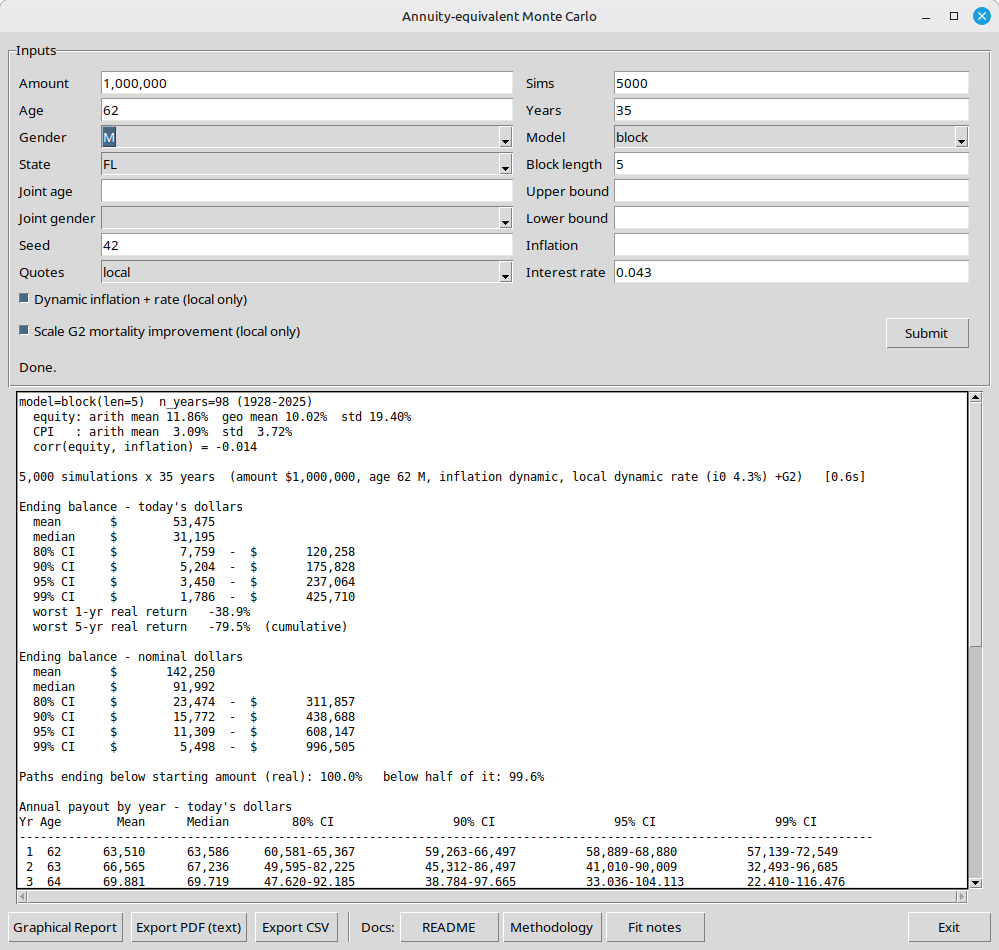
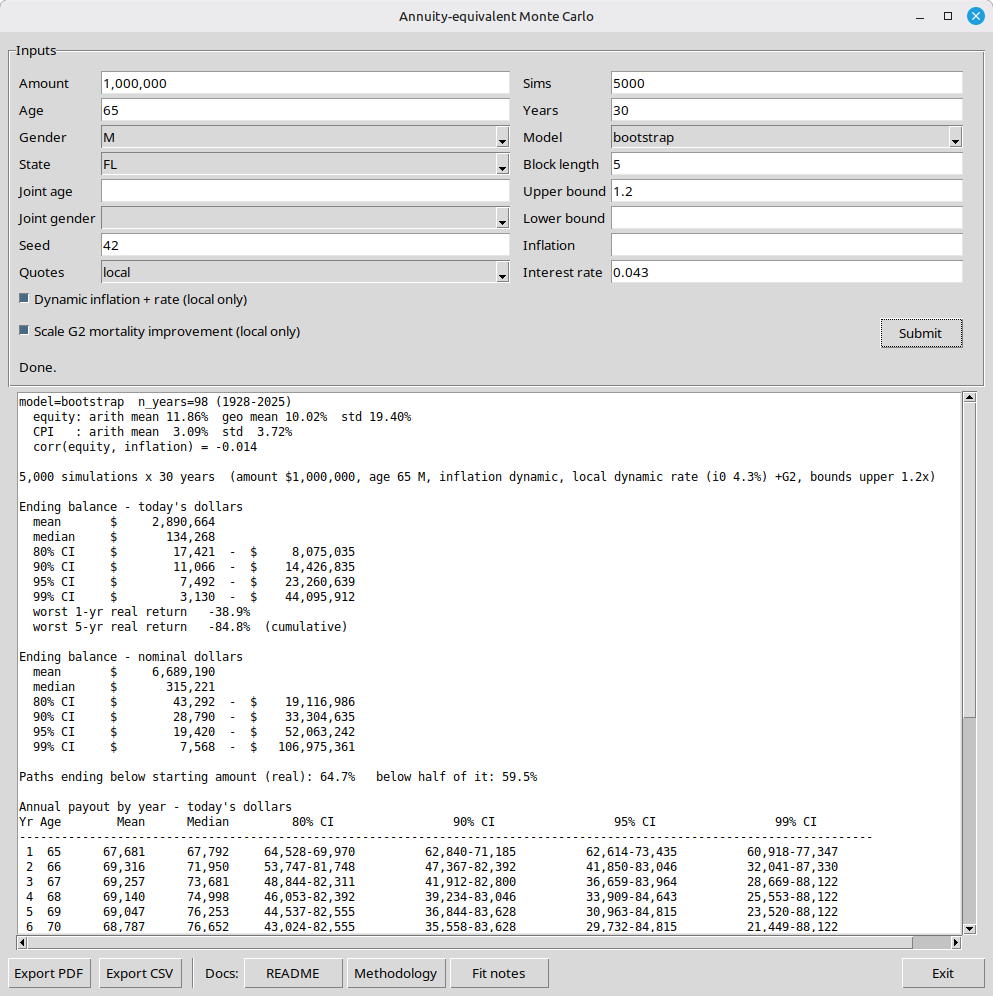
GUI: open saved PDF/CSV after export; refresh mc_gui.png
After a successful Export PDF or Export CSV the GUI now opens the file in the OS
default application (via the existing cross-platform _open_file helper); the save
still succeeds if the viewer cannot be launched. Also re-embed the updated GUI
screenshot in README.html.

Changed region(s): [[0.0, 0.0, 0.999, 1.0]]

diff --git a/montecarlo_gui.py b/montecarlo_gui.py
@@ -327,6 +327,15 @@ class MonteCarloGUI:
         self.export_csv.configure(state="normal")
         self.status.configure(text="Done.")
 
+    def _announce_saved(self, path):
+        """Report the save and open the file in its OS default application."""
+        try:
+            _open_file(pathlib.Path(path))
+        except OSError as exc:
+            self.status.configure(text=f"Wrote {path} (could not open: {exc})")
+            return
+        self.status.configure(text=f"Wrote {path} (opened)")
+
     def on_open_doc(self, filename):
         path = _HERE / filename
         if not path.exists():
@@ -357,7 +366,7 @@ class MonteCarloGUI:
             messagebox.showerror("Export failed", str(exc))
             self.status.configure(text="Error.")
             return
-        self.status.configure(text=f"Wrote {path}")
+        self._announce_saved(path)
 
     def on_export_csv(self):
         if self._last_csv_kwargs is None:
@@ -373,7 +382,7 @@ class MonteCarloGUI:
         except OSError as exc:
             messagebox.showerror("Export failed", str(exc))
             return
-        self.status.configure(text=f"Wrote {path}")
+        self._announce_saved(path)
 
 
 def main():